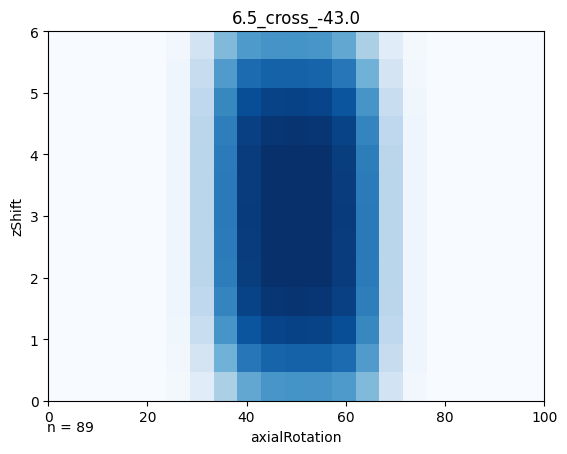
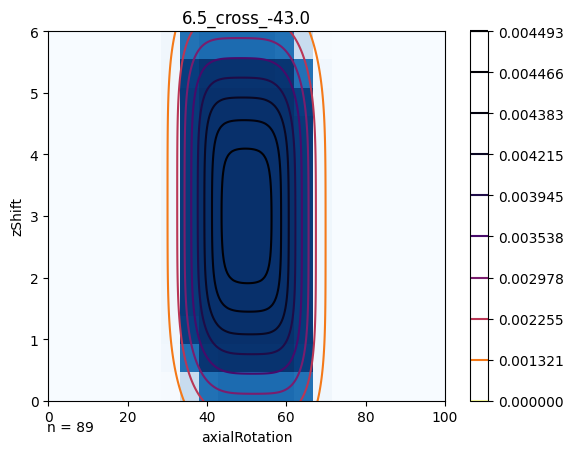
output the grid for design run; unfinished

diff --git a/2022_designAnalysisScripts/code/designGrid/findNonClashingGridPoints.py b/2022_designAnalysisScripts/code/designGrid/findNonClashingGridPoints.py
@@ -5,7 +5,7 @@ from findNonClashingGridPointsFunc import *
 from datetime import date
 
 # get the input directory
-inputDir = sys.argv[2]
+inputDir = sys.argv[1]
 
 # get current working directory
 cwd = os.getcwd() + "/"
@@ -26,23 +26,17 @@ outputDir = cwd + today + "_adjustedAxAndZGridData/" + inputDirName + "/"
 if not os.path.exists(outputDir):
     os.makedirs(outputDir)
 
-# get the column names
+# hardcoded column names
 cols = 'xShift,crossingAngle,axialRotation,zShift,energy'.split(',')
 outputFile = outputDir + 'designGeometryGrid.csv'
 
 df = pd.DataFrame()
-# check if output file exists
-if os.path.isfile(outputFile):
-    # read in the file
-    df = pd.read_csv(outputFile)
-else:
+# check if output file doesn't exist
+if not os.path.exists(outputFile):
     getNonClashingGeometryData(inputDir, outputFile, cols)
 
-# get the min and max of the xShift 
-xMin = df['xShift'].min()
-xMax = df['xShift'].max()
-crossMin = df['crossingAngle'].min()
-crossMax = df['crossingAngle'].max()
+# read the output file into a dataframe
+df = pd.read_csv(outputFile)
 
 # plot geometry density plot for xShift and crossingAngle
 #plotKde(df, 'xShift', 'crossingAngle', xMin, xMax, xInc, crossMin, crossMax, crossInc, outputDir, inputDirName)
@@ -56,15 +50,14 @@ adjustedZShift = (10/9*df['zShift'])-(0.15*df['axialRotation']/9)
 df['axialRotation'] = round(adjustedAxialRot, 2)
 df['zShift'] = round(adjustedZShift, 2)
 
-# get the list of crossing angles
-crossingAngles = np.arange(crossMin, crossMax+2, crossInc)
+# get the min and max of xShift and a list of the crossing angles
+dfXMin, dfXMax = getDfMinAndMax(df, 'xShift')
 
-# get the df for min and max xShift
-dfXMin = df[df['xShift'] == xMin]
-dfXMax = df[df['xShift'] == xMax]
+# get a list of crossing angles from df
+crossingAngles = df['crossingAngle'].unique()
 
 # add in a dictionary for axialRotation and zShift
-valuesDict = {'axialRotation': {}, 'zShift': {}}
+axAndZDict = {'axialRotation': {}, 'zShift': {}}
 
 # add axialRotation min, max, and increment to the dictionary
 axAndZDict['axialRotation']['min'] = 0
@@ -72,21 +65,20 @@ axAndZDict['axialRotation']['max'] = 100
 axAndZDict['zShift']['min'] = 0
 axAndZDict['zShift']['max'] = 6
 
-minOut = str(xMin)
-maxOut = str(xMax)
-plotKde(dfXMin, 'axialRotation', 'zShift', axAndZDict, acceptCutoff, outputDir, minOut)
-plotKde(dfXMax, 'axialRotation', 'zShift', axAndZDict, acceptCutoff, outputDir, maxOut)
-
 # add df for min and max xShift to list
 dfList = [dfXMin, dfXMax]
-outputList = [minOut, maxOut]
+min, max = str(dfXMin['xShift'].values[0]), str(dfXMax['xShift'].values[0])
+outputList = [min, max]
+acceptCutoff = 0.5
 # loop through crossingAngle and xShift values
 for df, out in zip(dfList,outputList):
     for cross in crossingAngles:
         tmpDf = df[df['crossingAngle'] == cross]
         # plot kde for axial rotation and zShift
         outputTitle = out+'_cross_' + str(cross)
-        Z = plotKde(tmpDf, 'axialRotation', 'zShift', axAndZDict, accceptCutoff, outputDir, outputTitle)
+        Z, acceptGrid = plotKde(tmpDf, 'axialRotation', 'zShift', axAndZDict, acceptCutoff, outputDir, outputTitle)
+        print(acceptGrid)
+        exit()
         xAxis = df['axialRotation']
         yAxis = df['zShift']
         data = df['energy']

diff --git a/2022_designAnalysisScripts/code/designGrid/findNonClashingGridPointsFunc.py b/2022_designAnalysisScripts/code/designGrid/findNonClashingGridPointsFunc.py
@@ -2,6 +2,8 @@ import matplotlib
 import matplotlib.pyplot as plt
 import numpy as np
 import pandas as pd
+from scipy import stats
+import seaborn as sns
 
 def getNonClashingGeometryData(inputDir, outputFile, columns):
     # setup output dataframe
@@ -29,7 +31,16 @@ def getNonClashingGeometryData(inputDir, outputFile, columns):
     # write the output file
     outputDf.to_csv(outputFile, index=False)
 
-def plotKde(df, xAxis, yAxis, xAndYDict, accceptCutoff, outputDir, title):
+def getDfMinAndMax(df, col):
+    # get the min and max of the xShift 
+    min = df[col].min()
+    max = df[col].max()
+    # get the min and max of the column
+    dfMin = df[df[col] == min]
+    dfMax = df[df[col] == max]
+    return dfMin, dfMax
+
+def plotKde(df, xAxis, yAxis, xAndYDict, acceptCutoff, outputDir, title):
     # get the x and y values from the dictionary
     xMin, xMax = xAndYDict[xAxis]['min'], xAndYDict[xAxis]['max']
     yMin, yMax = xAndYDict[yAxis]['min'], xAndYDict[yAxis]['max']
@@ -79,23 +90,21 @@ def plotKde(df, xAxis, yAxis, xAndYDict, accceptCutoff, outputDir, title):
 # for a reason I haven't figured out yet, this kde code slightly changes the grid points, but the image looks correct
 # the values are similar regardless, so I'm converting it to the right grid points below
 def getAcceptGridCsv(Z, positions, outputDir, outputTitle, acceptCutoff):
+    outputDf = pd.DataFrame()
     # turn z into a percentage
     zMax = Z.max()
     Z = Z/zMax
     # round all values to 2 decimal places
     Z = np.around(Z, 2)
-    print(Z)
     # remove all values below the cutoff
-    Z[Z < acceptCutoff] = 0
-    print(Z)
-    exit()
+    #TODO: start here tomorrow, output the acceptGrid properly
+    Z = Z[Z < acceptCutoff]
     # Output the density data for each geometry
-    fid = open(outputDir+outputTitle+"test.csv",'w')
     for currentIndex,elem in enumerate(Z):
         s1 = '%f, %f, %f\n'%(positions[0][currentIndex], positions[1][currentIndex], Z[currentIndex] )
-        fid.write(s1)
-    fid.close()
-    return Z
+        # add to the dataframe
+        outputDf = pd.concat([outputDf, pd.DataFrame([[positions[0][currentIndex], positions[1][currentIndex], Z[currentIndex]]], columns=['x', 'y', 'z'])])
+    return outputDf
 
 def plotKdeOverlay(kdeZScores, xAxis, xmin, xmax, yAxis, ymin, ymax, data, dataColumn, outputDir, outputTitle):
     # Plotting code below

diff --git a/2022_designAnalysisScripts/code/designGrid/generateDesignGeometryGridFunc.py b/2022_designAnalysisScripts/code/designGrid/generateDesignGeometryGridFunc.py
@@ -44,15 +44,9 @@ def getRandomGeometryGrid(numGeometries, ranges, xStarts, crossStarts):
 def getSetGeometryGrid(ranges, increments, xStarts, crossStarts):
     cols = 'xShift,crossingAngle,negAngle,axialRotation,negRot,zShift,interface,sequence'.split(',')
     # get geometry range from ranges
-    xShiftRange = ranges['xShift']
-    crossingAngleRange = ranges['crossingAngle']
-    axialRotationRange = ranges['axialRotation']
-    zShiftRange = ranges['zShift']
+    xShiftRange, crossingAngleRange, axialRotationRange, zShiftRange = ranges['xShift'], ranges['crossingAngle'], ranges['axialRotation'], ranges['zShift']
     # get geometry increments from increments
-    xInc = increments['xShift']
-    crossInc = increments['crossingAngle']
-    axInc = increments['axialRotation']
-    zInc = increments['zShift']
+    xInc, crossInc, axInc, zInc = increments['xShift'], increments['crossingAngle'], increments['axialRotation'], increments['zShift']
     # loop through the xShifts and crossingAngles
     tmpDf = pd.DataFrame()
     for xStart, cross in zip(xStarts, crossStarts):
